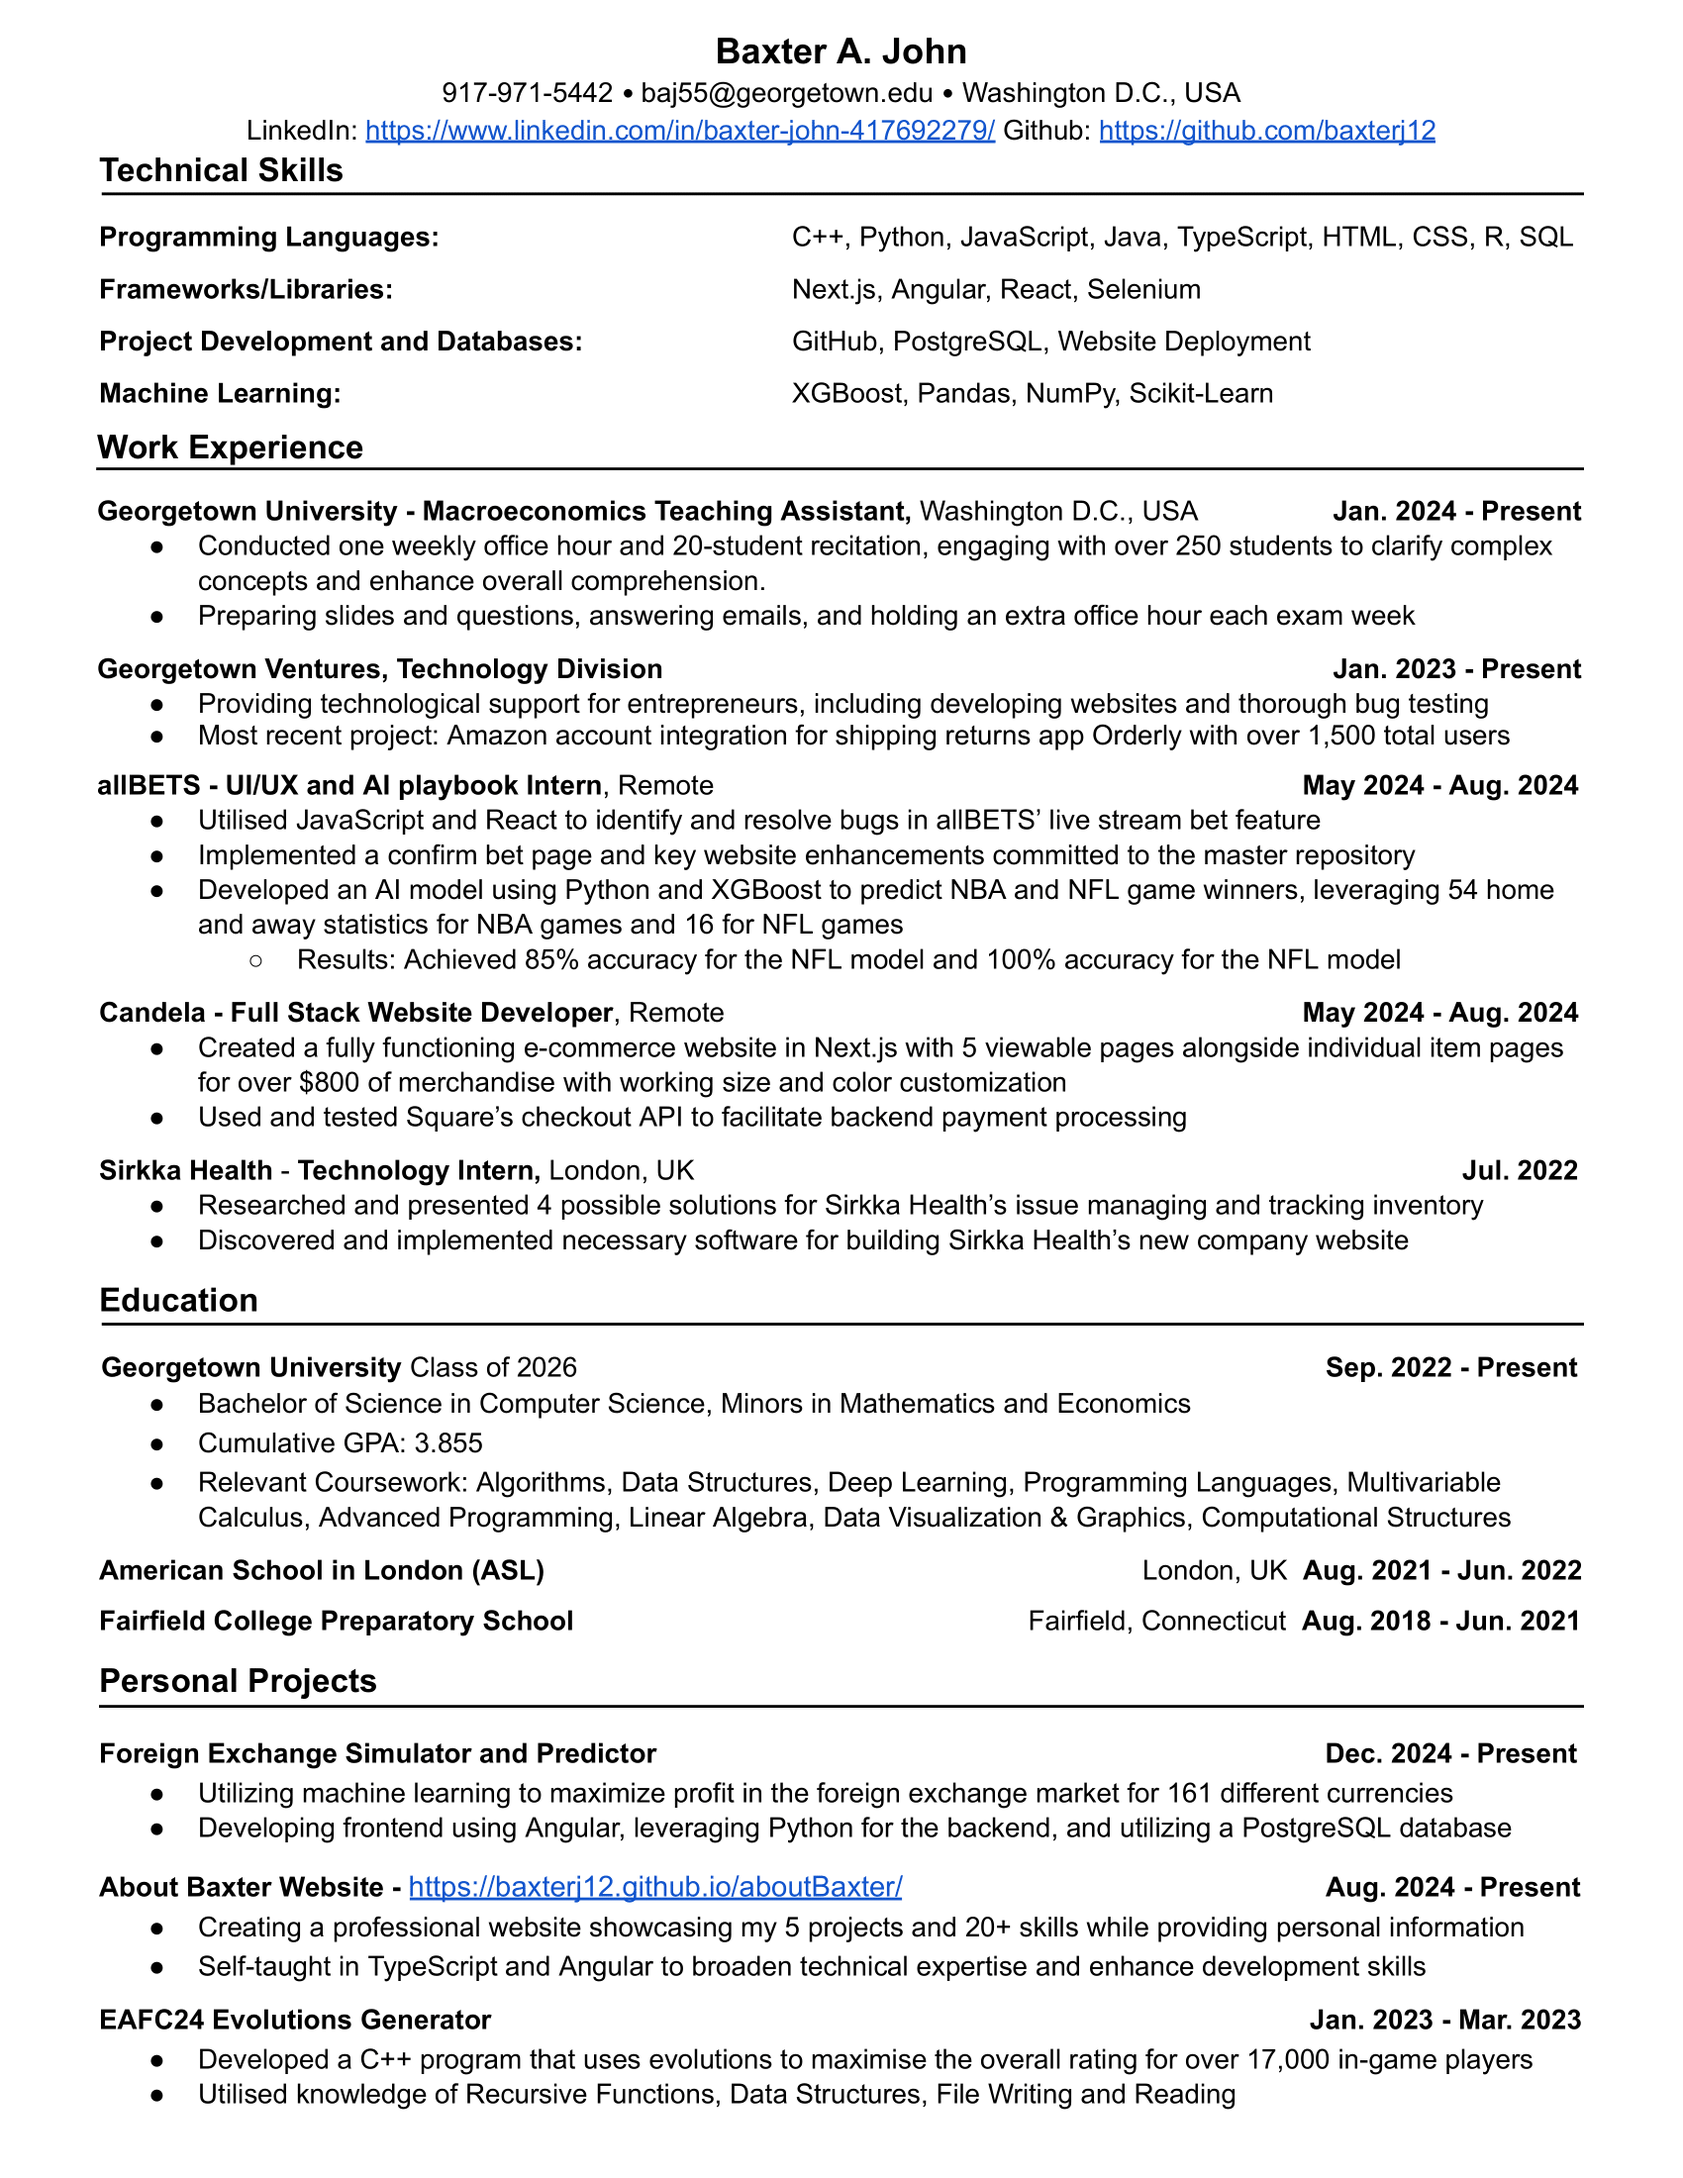
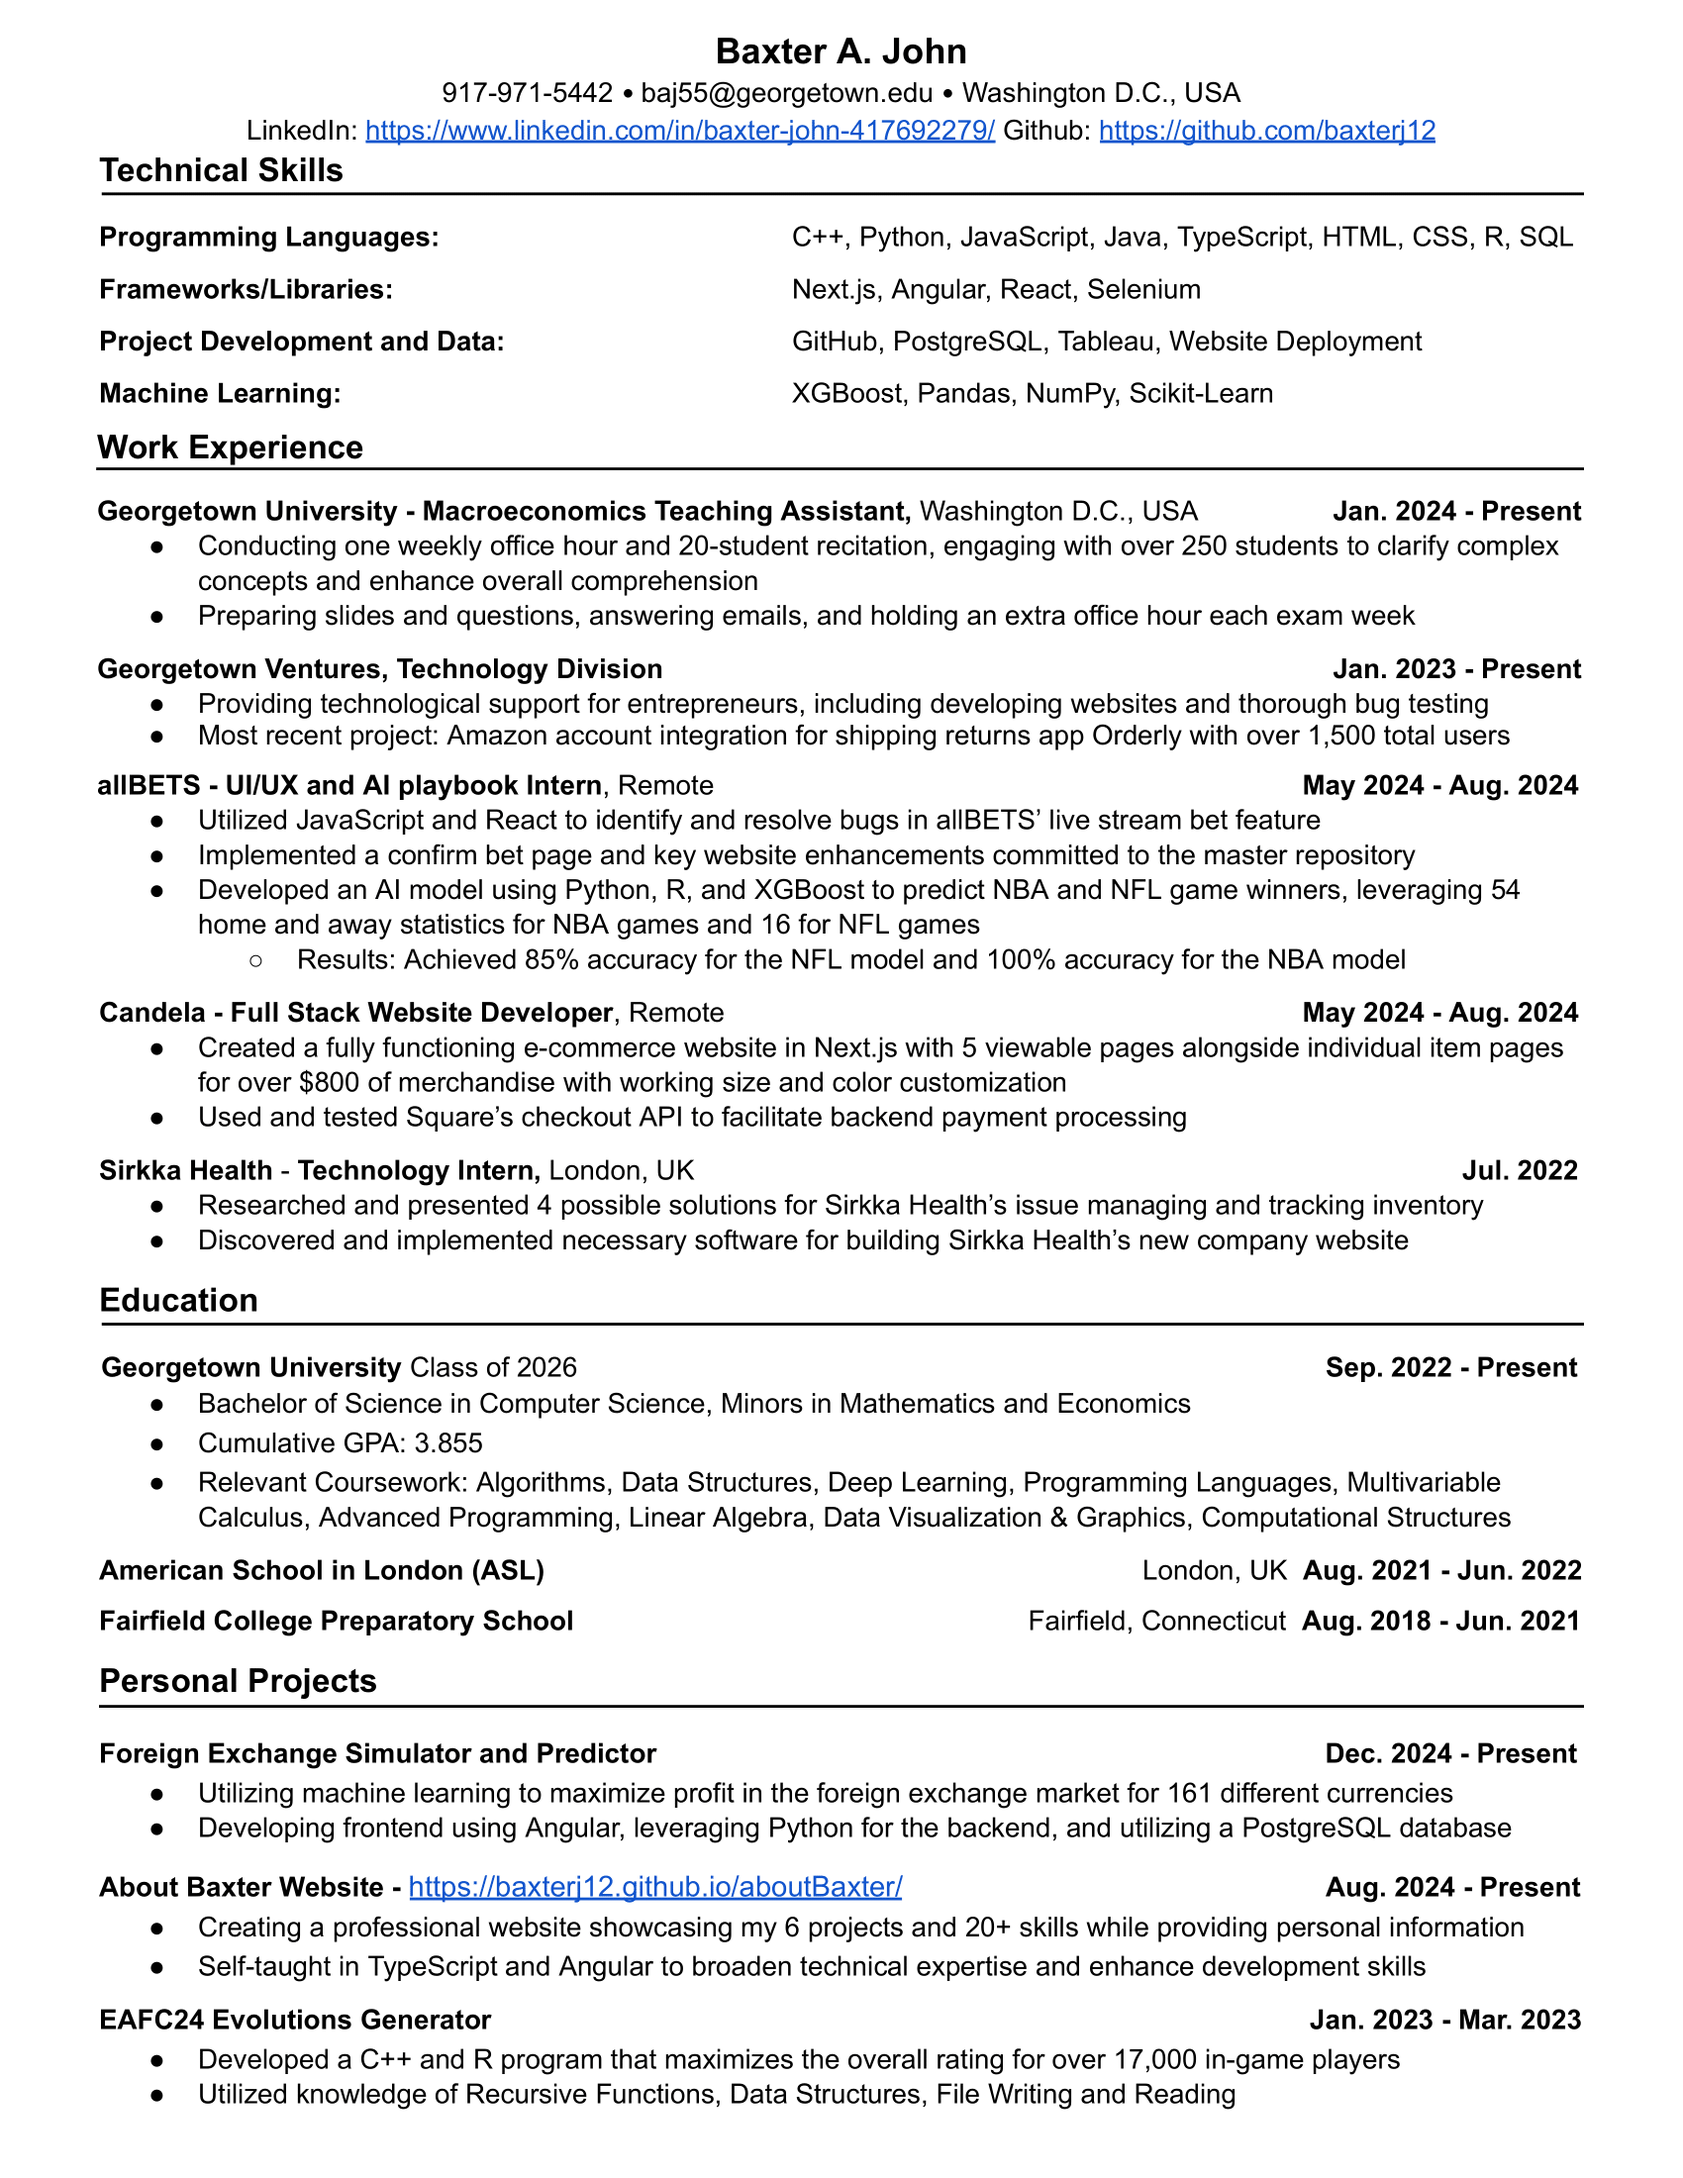
updating resume

diff --git a/src/app/resume/app.resume.html b/src/app/resume/app.resume.html
@@ -8,7 +8,7 @@
     </div>
     <div class="body">
         <h2 class="resumeH2">For more information, check my Projects or Skills</h2>
-        <h3 class="resumeH3">Last updated: 1/13/2025</h3>
+        <h3 class="resumeH3">Last updated: 1/27/2025</h3>
         <img class="resume" src="resume/resume.png"/>
     </div>
 </main>
